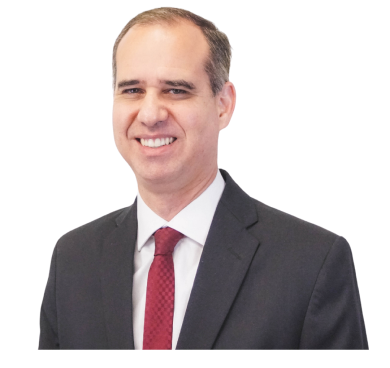
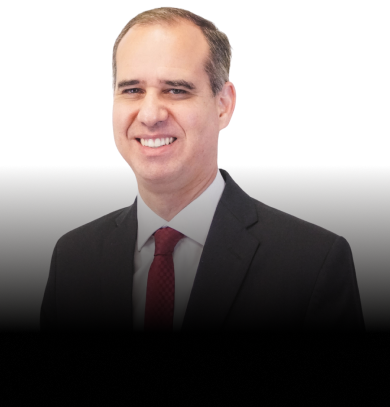
adding gradient fixes

diff --git a/src/pages/MarcosJunior/styles.ts b/src/pages/MarcosJunior/styles.ts
@@ -9,10 +9,6 @@ export const TitleContainer = styled.div`
   font-weight: 600;
   font-size: 40px;
   color: #ffffff;
-  /* background: linear-gradient(180deg, rgba(0, 0, 0, 0) 0%, rgba(0, 0, 0, 0.7) 49.79%, #000000 73.23%);
-  background-image: url(${marcos});
-  background-repeat: no-repeat;
-  background-position: center; */
   background-color: black;
 `;
 
@@ -20,10 +16,6 @@ export const ImageContainer = styled.div`
   display: flex;
   justify-content: center;
   background: linear-gradient(180deg, rgba(19, 14, 11, 0) 0%, #000000 69.58%);
-  /* background-clip: linear-gradient(180deg, rgba(19, 14, 11, 0) 0%, #000000 69.58%);
-  background-image: url(${marcos});
-  background-repeat: no-repeat;
-  background-position: center; */
   height: 300px;
 `;
 
@@ -33,6 +25,7 @@ export const Name = styled.div`
   font-size: 72px;
   line-height: 120%;
   color: #dedede;
+  margin-top: -80px;
 `;
 
 export const Role = styled.div`

diff --git a/src/pages/RogerioGurniak/index.tsx b/src/pages/RogerioGurniak/index.tsx
@@ -2,7 +2,7 @@ import React, { useState } from "react";
 
 import rogerio from "../../assets/rogerio-without-back.png";
 import arrowDown from "../../assets/arrow-down-white.svg";
-import redArrowDown from "../../assets/seta-para-baixo-red.png";
+// import redArrowDown from "../../assets/seta-para-baixo-red.png";
 import yellowArrowDown from "../../assets/seta-para-baixo-yellow.png";
 import Menu from "../../components/Menu";
 import MenuBlack from "../../components/MenuBlack";
@@ -22,7 +22,6 @@ import {
   ThanksContainer,
   ThanksText,
   ThanksTitle,
-  Fade
 } from "./styles";
 
 const RogerioGurniak: React.FC = () => {
@@ -43,7 +42,6 @@ const RogerioGurniak: React.FC = () => {
         <ImageContainer>
           <img src={rogerio} alt="Rogerio" />
         </ImageContainer>
-        <Fade></Fade>
         <Name>
           Pr.
           <br /> Rogério

diff --git a/src/pages/RogerioGurniak/styles.ts b/src/pages/RogerioGurniak/styles.ts
@@ -11,15 +11,6 @@ export const TitleContainer = styled.div`
   background-color: black;
 `;
 
-export const Fade = styled.div`
-    height: 20px;
-    background-color: red;
-    margin-top: -20px;
-    position: relative;
-    background: linear-gradient(180deg, rgba(19, 14, 11, 0) 0%, #000000 108.58%);
-    border-radius: 10px 10px 0 0;
-`;
-
 export const ImageContainer = styled.div`
   display: flex;
   justify-content: center;
@@ -37,7 +28,7 @@ export const Name = styled.div`
   line-height: 120%;
   color: #dedede;
   margin-bottom: 20px;
-  margin-top: -18px;
+  margin-top: -80px;
 `;
 
 export const Role = styled.div`
